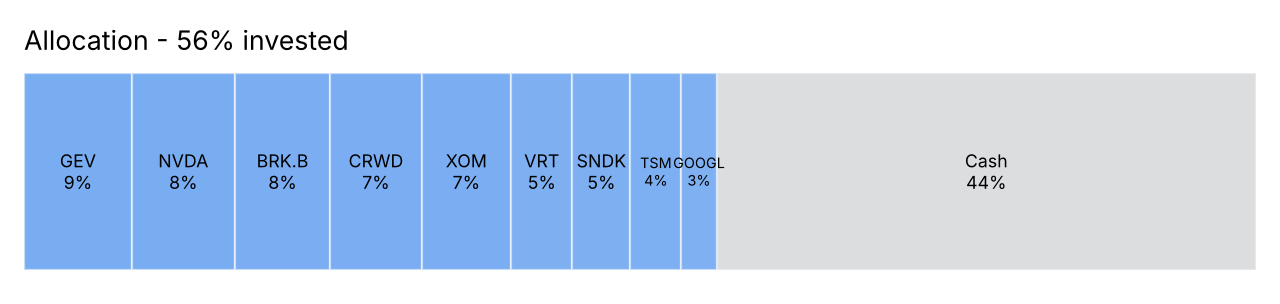
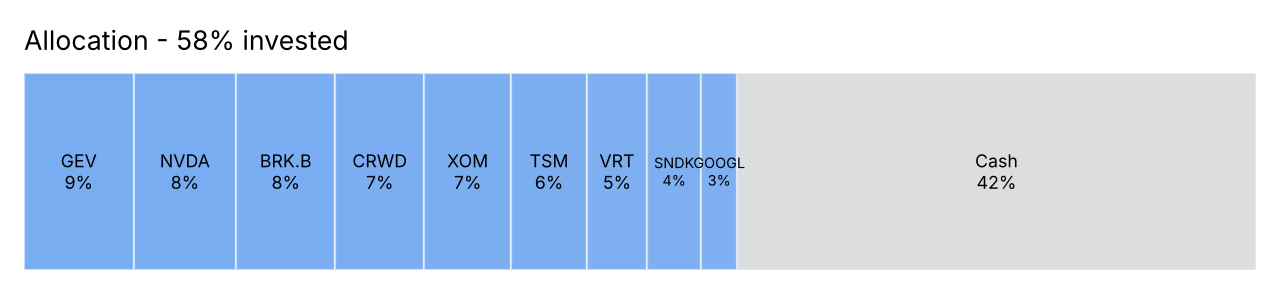
Add Nov 2 TSM trade (rotation #5), Nov 2 prices and refreshed charts
Claude-Session: https://claude.ai/code/session_01PzAdNzxxzYYTYCqEw83ijU

Changed region(s): [[0.0312, 0.2368, 0.5938, 0.8882], [0.75, 0.5033, 0.8125, 0.6217], [0.125, 0.1184, 0.1875, 0.148]]

diff --git a/tests/test_core.py b/tests/test_core.py
@@ -27,12 +27,15 @@ def test_overselling_is_rejected():
         build_positions([Trade("d", "X", "BUY", 1, 10), Trade("d", "X", "SELL", 2, 10)])
 
 
-def test_real_log_reconciles_with_platform():
-    trades = load_trades(DATA / "trades.csv")
-    snap = snapshot(trades, load_prices(DATA / "prices_2026-10-30.csv"), CONTEST.start_cash)
-    # Investopedia showed cash $42,903.29 and account $97,986.18 after the 10/30 close.
-    assert cash_after(trades, CONTEST.start_cash) == pytest.approx(42_903.29, abs=1.0)
-    assert snap.account_value == pytest.approx(97_986.18, abs=1.0)
+@pytest.mark.parametrize("cutoff,price_file,cash,account", [
+    ("2026-10-30", "prices_2026-10-30.csv", 42_903.29, 97_986.18),   # after the 10/30 close
+    ("2026-11-02", "prices_2026-11-02.csv", 40_850.84, 96_959.94),   # after the 11/2 close
+])
+def test_real_log_reconciles_with_platform(cutoff, price_file, cash, account):
+    trades = [t for t in load_trades(DATA / "trades.csv") if t.date <= cutoff]
+    snap = snapshot(trades, load_prices(DATA / price_file), CONTEST.start_cash)
+    assert cash_after(trades, CONTEST.start_cash) == pytest.approx(cash, abs=1.0)
+    assert snap.account_value == pytest.approx(account, abs=1.0)
 
 
 def test_every_trade_is_on_the_list():
@@ -43,7 +46,7 @@ def test_every_trade_is_on_the_list():
 
 def test_rotation_days_skip_build_day():
     trades = load_trades(DATA / "trades.csv")
-    assert len(rotation_days(trades, CONTEST.start_date)) == 4
+    assert len(rotation_days(trades, CONTEST.start_date)) == 5
 
 
 @pytest.mark.parametrize("days,rate", [(0, 0), (1, 0.02), (2, 0.02), (3, 0.03), (4, 0.03), (5, 0.05), (12, 0.05)])

diff --git a/src/wkuchallenge/__main__.py b/src/wkuchallenge/__main__.py
@@ -80,7 +80,7 @@ def main(argv=None) -> None:
     for name, fn in (("status", cmd_status), ("charts", cmd_charts)):
         p = sub.add_parser(name)
         p.add_argument("--trades", default=DATA / "trades.csv")
-        p.add_argument("--prices", default=DATA / "prices_2026-10-30.csv")
+        p.add_argument("--prices", default=DATA / "prices_2026-11-02.csv")
         p.add_argument("--peak", type=float, default=100_400.0, help="highest account value so far")
         p.set_defaults(fn=fn)
 
@@ -93,8 +93,8 @@ def main(argv=None) -> None:
     p.set_defaults(fn=cmd_limit)
 
     p = sub.add_parser("simulate")
-    p.add_argument("--start", type=float, default=97_986.18)
-    p.add_argument("--days", type=int, default=15)
+    p.add_argument("--start", type=float, default=96_959.94)
+    p.add_argument("--days", type=int, default=14)
     p.add_argument("--n", type=int, default=50_000)
     p.set_defaults(fn=cmd_simulate)
 

diff --git a/README.md b/README.md
@@ -5,7 +5,7 @@ A small Python project built during a four-week simulated stock-picking contest 
 ![Holdings vs average cost](reports/pnl_vs_cost.png)
 ![Allocation](reports/allocation.png)
 
-*Snapshot after the U.S. close on Oct 30, 2026, which was the semiconductor index's worst day of the contest so far (−7.2%).*
+*Snapshot after the U.S. close on Nov 2, 2026. The fifth rotation day (a TSM buy) locked in the top 5% bonus tier.*
 
 ## What it does
 
@@ -22,21 +22,21 @@ pip install -e .            # or: pip install -r requirements.txt
 cd src
 python -m wkuchallenge status                                  # holdings, score, rule warnings
 python -m wkuchallenge limit TSM 2100 --prev-close 406.13      # limit price + share count
-python -m wkuchallenge simulate --start 97986 --days 15        # strategy comparison
+python -m wkuchallenge simulate --start 96960 --days 14        # strategy comparison
 python -m wkuchallenge charts                                  # regenerate reports/*.png
 pytest                                                         # from the repo root
 ```
 
-`status` output on the Oct 30 snapshot:
+`status` output on the Nov 2 snapshot:
 
 ```
-Cash 42,903.17 | Account 97,986.06 | Invested 56% (target 89%)
-Rotation days 4: 2026-10-27, 2026-10-28, 2026-10-29, 2026-10-30
+Cash 40,850.72 | Account 96,959.82 | Invested 58% (target 89%)
+Rotation days 5: 2026-10-27, 2026-10-28, 2026-10-29, 2026-10-30, 2026-11-02
 Rule checks:
-  ! SNDK: -16.7% vs cost, past the 12% review line
+  ! SNDK: -22.2% vs cost, past the 12% review line
 ```
 
-The rebuilt account matches the simulator's figure to within $0.12.
+The rebuilt account matches the simulator's figure to within $0.12 on every snapshot checked (see `tests/`).
 
 ## Contest rules encoded
 
@@ -54,14 +54,14 @@ The rebuilt account matches the simulator's figure to within $0.12.
 
 ## Strategy model
 
-With about 15 trading days left and the account at $97,986, we ran 50,000 simulated contests against 123 competitors of mixed styles:
+With 14 trading days left and the account at $96,960, we ran 50,000 simulated contests against 123 competitors of mixed styles:
 
 | Strategy | E[score] | Lose >8% | Bottom 20 | Top 10 | Top 3 |
 |---|---:|---:|---:|---:|---:|
-| Conservative, ~30% invested | 98,189 | 0.7% | 13.5% | 0.0% | 0.0% |
-| Original plan, ~60% invested | 98,423 | 10.6% | 15.0% | 0.2% | 0.0% |
-| Aggressive, ~89% in 5–6 names | 98,774 | 24.8% | 29.0% | 6.1% | 0.9% |
-| All-in, 2–3 high-vol names | 99,174 | 34.3% | 38.3% | 21.7% | 9.6% |
+| Conservative, ~30% invested | 97,138 | 1.7% | 23.2% | 0.0% | 0.0% |
+| Original plan, ~60% invested | 97,346 | 13.8% | 22.8% | 0.1% | 0.0% |
+| Aggressive, ~89% in 5–6 names | 97,668 | 27.6% | 34.0% | 4.4% | 0.6% |
+| All-in, 2–3 high-vol names | 98,039 | 36.1% | 41.1% | 19.2% | 8.1% |
 
 The point the model made for us is that **in a ranked contest, playing safe almost guarantees a middle finish.** Moving up the table only happens by accepting a real chance of a bad result. The team chose a tolerance of about 15–20% for "losing badly", and this table is what that choice trades off against.
 

diff --git a/docs/retrospective.md b/docs/retrospective.md
@@ -1,4 +1,4 @@
-# Retrospective (written mid-contest, Nov 2, 2026)
+# Retrospective (written mid-contest, updated Nov 3, 2026)
 
 ## Timeline
 
@@ -9,6 +9,7 @@
 | Oct 28 | Topped up TSM; bought BRK.B, GEV and SNDK | Moved to the aggressive plan after the model run; SNDK was an earnings bet |
 | Oct 29 | A teammate trimmed TSM; we bought GOOGL | GOOGL fell 12.6% that day, its worst day on record |
 | Oct 30 | Bought BRK.B and VRT (GTC limit at $230) | The semiconductor index fell 7.2%. We added defence and caught VRT on the dip |
+| Nov 2 | Bought 5 TSM | Fifth rotation day, which locks in the top 5% bonus tier |
 
 ## What worked
 
@@ -28,5 +29,5 @@
 
 ## Still open
 
-- We are 56% invested against an 89% target, and the rank is 117 of 145. The remaining weeks will decide whether the aggressive plan pays off.
+- We are 58% invested against an 89% target, and the rank is 117 of 147 (Nov 2). The remaining weeks will decide whether the aggressive plan pays off.
 - This file will be updated after Nov 20 with the final result.
